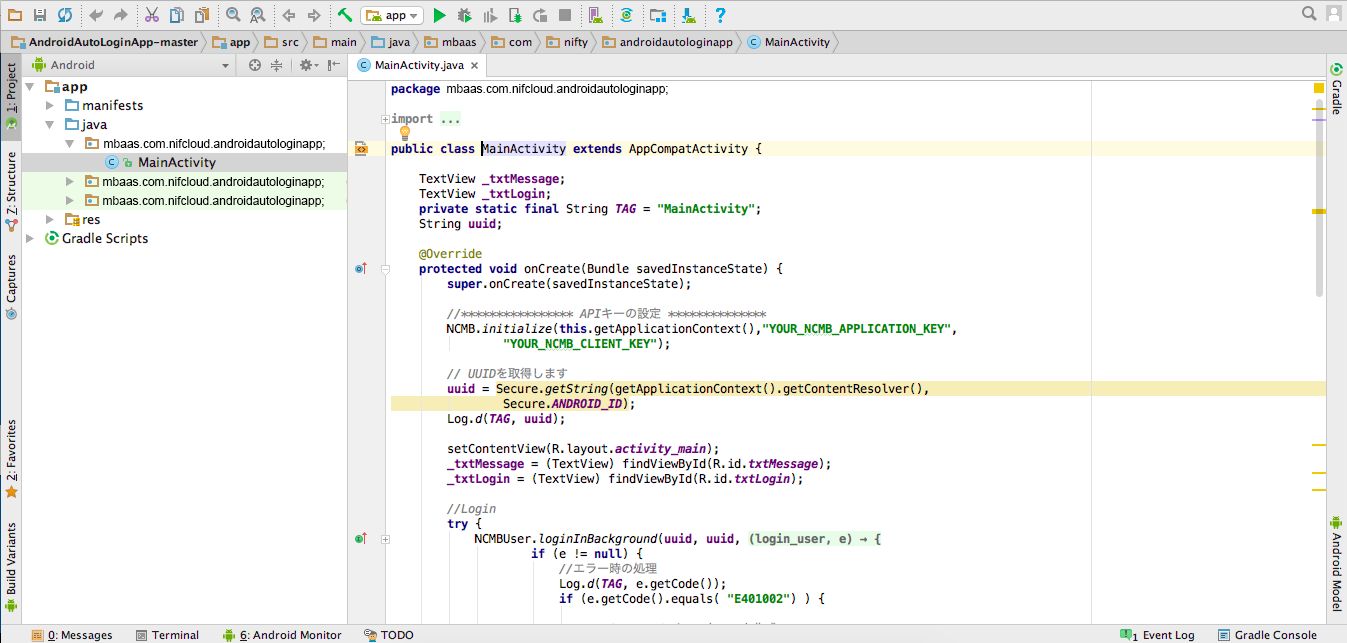
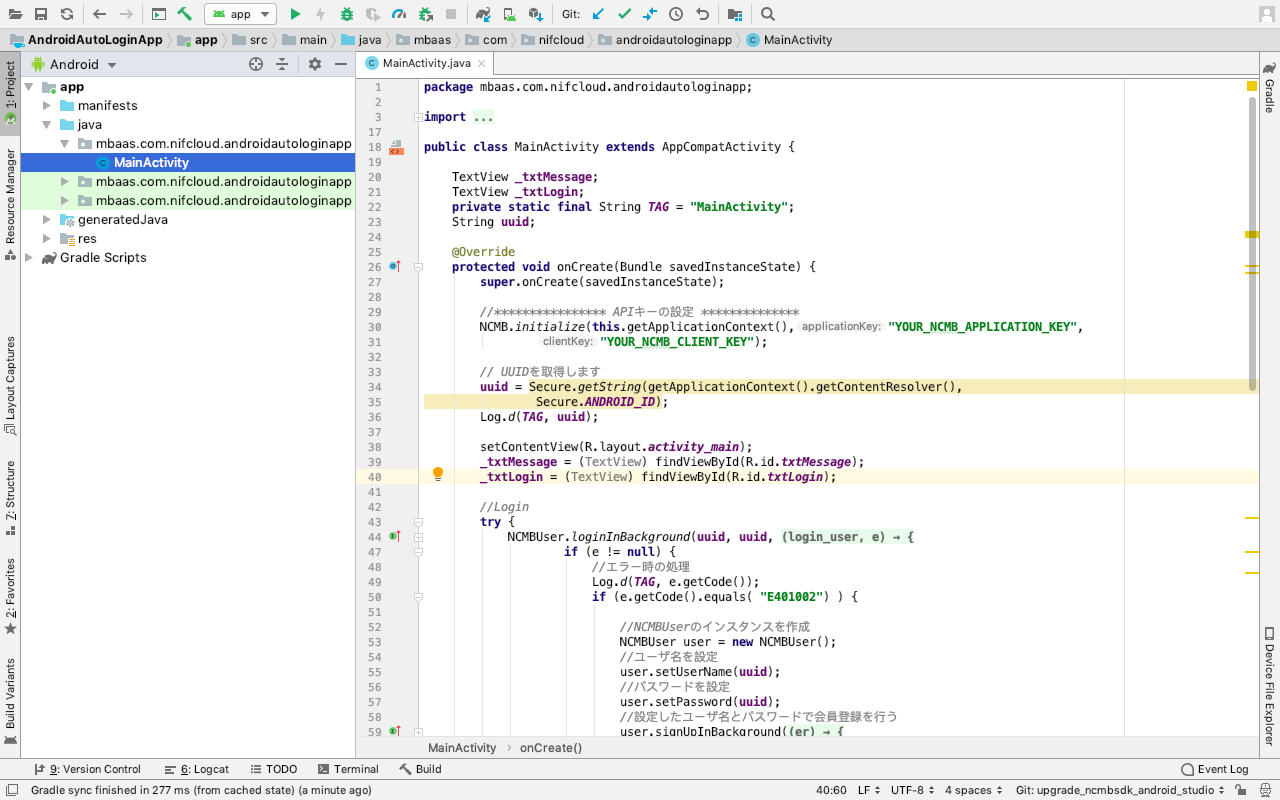
Update image and readme

diff --git a/README.md b/README.md
@@ -16,9 +16,9 @@
 
 ## 動作環境
 
-* Android Studio ver. 3.1
+* Android Studio ver. 3.4.1
 * Android OS ver. 6.0, OS ver. 4.4.2
-* Android SDK v3
+* Android SDK v3.0.2
   - SDK v2系だと動作しないので注意
 
 ※上記内容で動作確認をしています。
@@ -43,7 +43,7 @@
 * 下記リンクをクリックしてプロジェクトをダウンロードします
  * https://github.com/NIFCloud-mbaas/AndroidAutoLoginApp/archive/master.zip
 * ダウンロードしたプロジェクトを解凍します
-* AndroidStudio を開きます、「Open an existing Android Studio projct」をクリックして解凍したプロジェクトを選択します
+* AndroidStudio を開きます、「Open an existing Android Studio project」をクリックして解凍したプロジェクトを選択します
 
 ![画像8-1](readme-img/android_project_open.png)
 
@@ -64,8 +64,8 @@ SDKはここ（[SDK リリースページ](https://github.com/NIFCloud-mbaas/ncm
   - app/build.gradleファイルに以下を追加します
 ```gradle
 dependencies {
-    compile 'com.google.code.gson:gson:2.3.1'
-    compile files('libs/NCMB.jar')
+    implementation 'com.google.code.gson:gson:2.3.1'
+    implementation files('libs/NCMB.jar')
 }
 ```
   - androidManifestの設定
